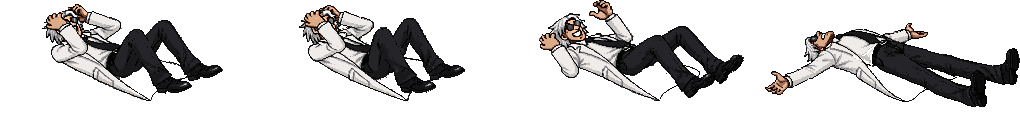
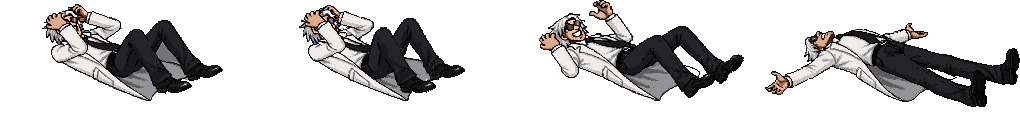
고그니쟈 누운 채 움찔: 다리 밑 회색은 옷자락이라 되살림(바닥 조각만 지움)
Claude-Session: https://claude.ai/code/session_01JodrzeV48Gd5LuDqmrEtew

diff --git a/tools/charpack/speck_v2/man15.py b/tools/charpack/speck_v2/man15.py
@@ -4,7 +4,7 @@ import numpy as np
 from PIL import Image
 from scipy import ndimage as nd
 S=os.path.dirname(os.path.abspath(__file__))
-PICK={'8':[786,709],'43':[217,383,359,407,372,244],'44':[545,898,1140]}
+PICK={'8':[786,709],'44':[545,898,1140]}   # 누운 채 움찔 다리 밑 판은 가운이라 둠(사용자 11-08)
 r=json.load(open(f'{S}/flood.json')); log={}
 for b,ids in PICK.items():
     p=f'{S}/final2/char-1.5/{b}.webp.png'; a=np.array(Image.open(p).convert('RGBA'))
